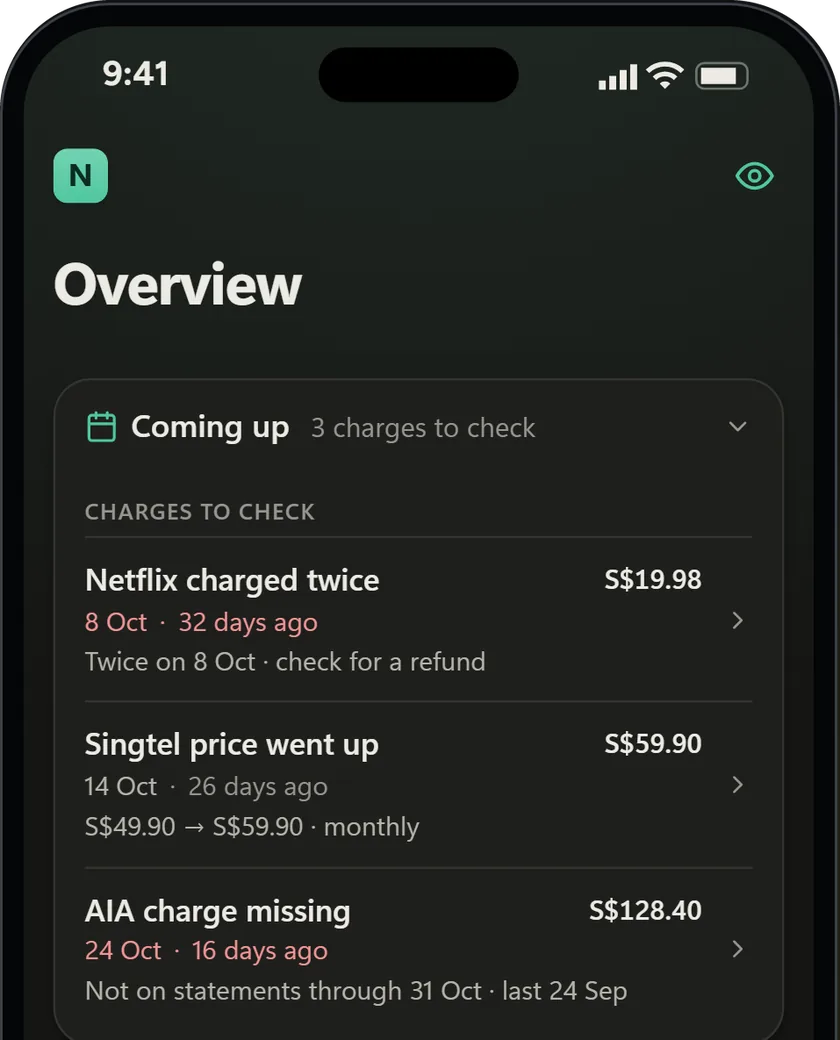
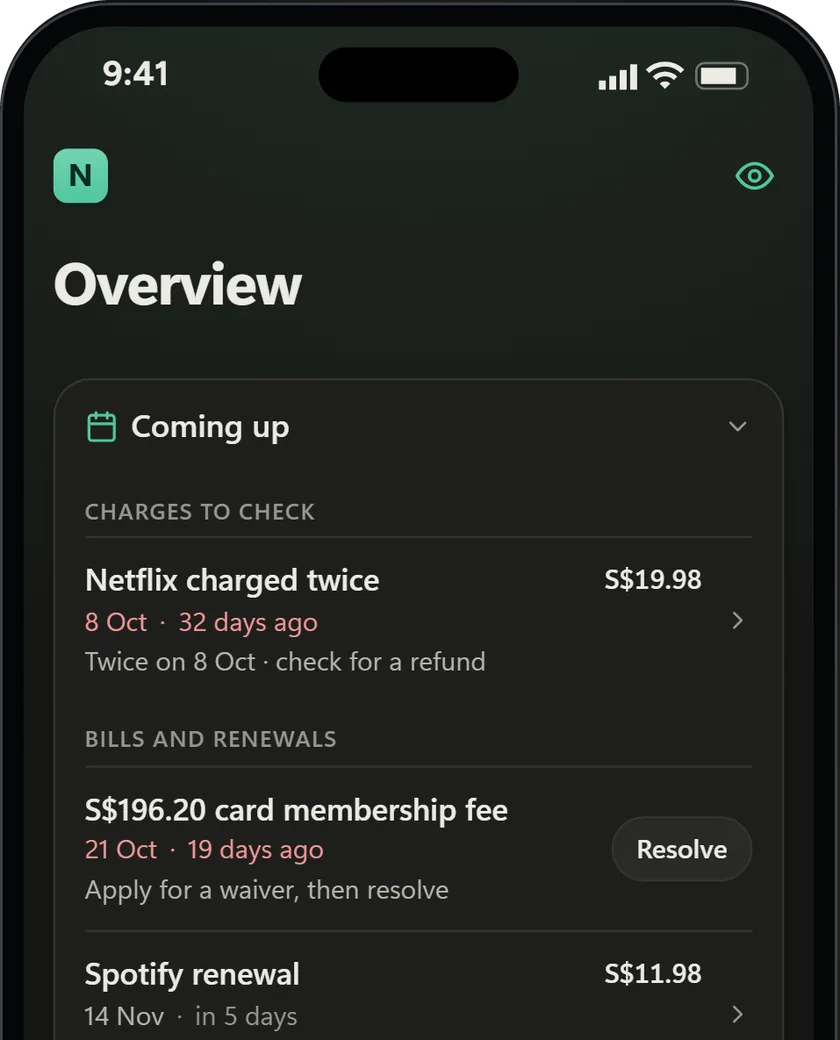
Projects: sharper selling points for all four apps
Each app's reasons and More features were rethought line by line for a
reader who gets one look: the pinned board, the cats doing the nagging, a
whole financial life in one place, smart packing that learns. New cards
show empty slots, private replies, double charges and card fees, saved
lists per kind of trip and planning on any device; retired images go.

diff --git a/projects.html b/projects.html
@@ -69,15 +69,15 @@
 						<ul class="app-why" id="squashbot-why" tabindex="-1" aria-label="Why I built my own">
 							<li><span class="app-why__icon" aria-hidden="true"><svg viewBox="0 0 24 24"><use href="#pj-i-chat"/></svg></span><p><strong>Booking a court takes one message</strong></p></li>
 							<li><span class="app-why__icon" aria-hidden="true"><svg viewBox="0 0 24 24"><use href="#pj-i-coins"/></svg></span><p><strong>Court fees split themselves</strong></p></li>
-							<li><span class="app-why__icon" aria-hidden="true"><svg viewBox="0 0 24 24"><use href="#pj-i-id"/></svg></span><p><strong>Friends join without installing anything</strong></p></li>
+							<li><span class="app-why__icon" aria-hidden="true"><svg viewBox="0 0 24 24"><use href="#pj-i-list"/></svg></span><p><strong>Who&#8217;s playing is always pinned at the top</strong></p></li>
 						</ul>
 						<p class="app-card__facts"><span>Cloudflare Workers, D1</span></p>
 						<figure class="cpn cpn--lock" data-for="squash" data-script="assets/js/projects-companions.js"><div class="cpl" aria-hidden="true" inert></div><figcaption>Book a court, and the group&#8217;s phones light up.</figcaption></figure>
 					</div>
 					<section class="app-more" aria-labelledby="squashbot-more"><h3 id="squashbot-more">More features.</h3><ul>
-						<li><p><strong>Catches double bookings before we turn up</strong></p><img src="images/projects/squashbot-conflict.webp" alt="SquashBot&#8217;s confirm card for c2 tue 8.30pm, Court 2 on Tue 17 Nov from 8:30pm, warning that it overlaps an existing booking on Court 2 from 8:00 pm to 9:00 pm, with an Add anyway button." width="840" height="1040" loading="lazy" decoding="async"></li>
-						<li><p><strong>Peak and holiday rates worked out for us</strong></p><img src="images/projects/squashbot-pricing.webp" alt="The Mini App&#8217;s Tab history: a 5pm to 7pm court at $9.00, a Deepavali holiday morning hour at $6.00 and a weekday afternoon at $6.00 for two hours, above the rule: $6 an hour from 6pm, on weekends and on public holidays, $3 otherwise." width="840" height="1040" loading="lazy" decoding="async"></li>
-						<li><p><strong>Empty slots fill without asking around</strong></p><img src="images/projects/squashbot-mini.webp" alt="The SquashBot Mini App listing three courts: two with Join buttons, one marked Full." width="840" height="1040" loading="lazy" decoding="async"></li>
+						<li><p><strong>Courts and the tab, one tap away</strong></p><img src="images/projects/squashbot-mini.webp" alt="The SquashBot Mini App listing three courts: two with Join buttons, one marked Full." width="840" height="1040" loading="lazy" decoding="async"></li>
+						<li><p><strong>Empty slots fill without asking around</strong></p><img src="images/projects/squashbot-slots.webp" alt="The group chat with one SquashBot post: 2 slots left on Court 1, in 2 days on Sun 15 Nov, 10am to 12pm, with Nicholas playing and a Join button." width="840" height="1040" loading="lazy" decoding="async"></li>
+						<li><p><strong>The group chat stays free of bot spam</strong></p><img src="images/projects/squashbot-private.webp" alt="A SquashBot list in the group chat that says Only you can see this list, with a button to join or leave each court, then Add booking and Close." width="840" height="1040" loading="lazy" decoding="async"></li>
 					</ul></section>
 				</article>
 
@@ -131,7 +131,7 @@
 					</figure>
 					<div class="app-card__body">
 						<ul class="app-why" id="nagbot-why" tabindex="-1" aria-label="Why I built my own">
-							<li><span class="app-why__icon" aria-hidden="true"><svg viewBox="0 0 24 24"><use href="#pj-i-bell"/></svg></span><p><strong>The bot reminds, so we don&#8217;t have to</strong></p></li>
+							<li><span class="app-why__icon" aria-hidden="true"><svg viewBox="0 0 24 24"><use href="#pj-i-bell"/></svg></span><p><strong>Our two cats do the nagging</strong></p></li>
 							<li><span class="app-why__icon" aria-hidden="true"><svg viewBox="0 0 24 24"><use href="#pj-i-chat"/></svg></span><p><strong>Chores rotate evenly between us</strong></p></li>
 							<li><span class="app-why__icon" aria-hidden="true"><svg viewBox="0 0 24 24"><use href="#pj-i-spark"/></svg></span><p><strong>Adding a chore takes one plain sentence</strong></p></li>
 						</ul>
@@ -140,7 +140,7 @@
 					</div>
 					<section class="app-more" aria-labelledby="nagbot-more"><h3 id="nagbot-more">More features.</h3><ul>
 						<li><p><strong>Chores become a weekly game</strong></p><img src="images/projects/nag-stats.webp" alt="The Chores app&#8217;s Stats tab: DodgerBlueee first with 5 chores and a 3-week reign, Nicholas second with 4, and 2 done together." width="840" height="1040" loading="lazy" decoding="async"></li>
-						<li><p><strong>One big clean-up clears the small reminders</strong></p><img src="images/projects/nag-family.webp" alt="The clear poop chore in the Chores app with its family: wash the litter box above it, shake the litter box below." width="840" height="1040" loading="lazy" decoding="async"></li>
+						<li><p><strong>Nested chores clear in one tap</strong></p><img src="images/projects/nag-family.webp" alt="The clear poop chore in the Chores app with its family: wash the litter box above it, shake the litter box below." width="840" height="1040" loading="lazy" decoding="async"></li>
 						<li><p><strong>No flood of nags after a holiday</strong></p><img src="images/projects/nag-vacation.webp" alt="The chat after someone sends /pause all 14: the bot replies that all chores are paused until Sun, Nov 22 and the cats will nap on your luggage." width="840" height="1040" loading="lazy" decoding="async"></li>
 					</ul></section>
 				</article>
@@ -197,16 +197,16 @@
 					</figure>
 					<div class="app-card__body">
 						<ul class="app-why" id="finance-why" tabindex="-1" aria-label="Why I built my own">
-							<li><span class="app-why__icon" aria-hidden="true"><svg viewBox="0 0 24 24"><use href="#pj-i-lock"/></svg></span><p><strong>No app ever holds our bank logins</strong></p></li>
-							<li><span class="app-why__icon" aria-hidden="true"><svg viewBox="0 0 24 24"><use href="#pj-i-check"/></svg></span><p><strong>Flags the small charges a stolen card makes</strong></p></li>
+							<li><span class="app-why__icon" aria-hidden="true"><svg viewBox="0 0 24 24"><use href="#pj-i-home"/></svg></span><p><strong>Our whole financial life in one place</strong></p></li>
+							<li><span class="app-why__icon" aria-hidden="true"><svg viewBox="0 0 24 24"><use href="#pj-i-coins"/></svg></span><p><strong>Know where every dollar went</strong></p></li>
 							<li><span class="app-why__icon" aria-hidden="true"><svg viewBox="0 0 24 24"><use href="#pj-i-bolt"/></svg></span><p><strong>Every statement filed and added in one go</strong></p></li>
 						</ul>
 						<p class="app-card__facts"><span>Python, JavaScript</span></p>
 						<figure class="cpn cpn--flow" data-for="finance" data-script="assets/js/projects-companions.js"><ol class="cpf-flow" aria-label="Where the work happens"><li><span class="cpf-t" aria-hidden="true"><svg viewBox="0 0 40 40"><path d="M18 5h10.5l5 5v17M14 8.5h11.5l5 5V30"/><path d="M10 12h12l6 6v16H10z"/><path d="M22 12v6h6"/></svg></span><span>Bank PDFs downloaded</span></li><li><span class="cpf-t cpf-pc" aria-hidden="true"><svg viewBox="0 0 40 40"><rect x="7" y="10" width="26" height="17" rx="2"/><path d="M4 30h32l-2 3H6z"/><path class="cpf-line" pathLength="1" d="M10 23.5 13.5 21.5 16.5 22.2 20 19 23.5 19.6 27 15.8 30 15"/><circle class="cpf-dot" cx="30" cy="15" r="1.7"/></svg></span><span>Checked on the PC</span></li><li><span class="cpf-t" aria-hidden="true"><svg viewBox="0 0 40 40"><rect x="13.5" y="6" width="13" height="28" rx="3"/><path d="M18.5 9h3"/><path d="M16.6 19.4a3.5 3.5 0 0 1 6.2-1.8M23.4 21.6a3.5 3.5 0 0 1-6.2 1.8"/><path d="M23.1 15.9v2h-2M16.9 25.1v-2h2"/></svg></span><span>Synced to the iPhone</span></li></ol></figure>
 					</div>
 					<section class="app-more" aria-labelledby="finance-more"><h3 id="finance-more">More features.</h3><ul>
-						<li><p><strong>No double charge goes unnoticed</strong></p><img src="images/projects/finance-alerts.webp" alt="Sample Coming up list with three charges to check: Netflix charged twice on 8 Oct, Singtel&#8217;s monthly price up from S$49.90 to S$59.90, and an AIA charge missing from the statements through 31 Oct." width="840" height="1040" loading="lazy" decoding="async"></li>
-						<li><p><strong>No guessing if we&#8217;re insured enough</strong></p><img src="images/projects/finance-insurance.webp" alt="Sample Insurance screen for Nicholas: cover short S$60k on critical illness. Death and total and permanent disability are covered; the critical illness bar is half full, short S$60,000." width="840" height="1040" loading="lazy" decoding="async"></li>
+						<li><p><strong>Double charges and card fees caught</strong></p><img src="images/projects/finance-alerts.webp" alt="Sample Coming up list: Netflix charged twice on 8 Oct, a S$196.20 card membership fee to apply for a waiver on, and a Spotify renewal in 5 days." width="840" height="1040" loading="lazy" decoding="async"></li>
+						<li><p><strong>Insurance coverage at a glance</strong></p><img src="images/projects/finance-insurance.webp" alt="Sample Insurance screen for Nicholas: cover short S$60k on critical illness. Death and total and permanent disability are covered; the critical illness bar is half full, short S$60,000." width="840" height="1040" loading="lazy" decoding="async"></li>
 						<li><p><strong>Retirement savings<br>that cut tax</strong></p><img src="images/projects/finance-tax.webp" alt="Sample Tax moves page for 2026 pay: a S$15,300 SRS top-up cuts tax by about S$1,071 and an optional S$8,000 own CPF top-up by about S$441, taking tax before rebate from S$1,943 to S$431." width="840" height="1040" loading="lazy" decoding="async"></li>
 					</ul></section>
 				</article>
@@ -284,17 +284,17 @@
 					</figure>
 					<div class="app-card__body">
 						<ul class="app-why" id="packing-why" tabindex="-1" aria-label="Why I built my own">
-							<li><span class="app-why__icon" aria-hidden="true"><svg viewBox="0 0 24 24"><use href="#pj-i-moon"/></svg></span><p><strong>The right number of socks, every trip</strong></p></li>
-							<li><span class="app-why__icon" aria-hidden="true"><svg viewBox="0 0 24 24"><use href="#pj-i-list"/></svg></span><p><strong>Stops me packing things I don&#8217;t use</strong></p></li>
-							<li><span class="app-why__icon" aria-hidden="true"><svg viewBox="0 0 24 24"><use href="#pj-i-phone"/></svg></span><p><strong>Tick items off on my phone while packing</strong></p></li>
+							<li><span class="app-why__icon" aria-hidden="true"><svg viewBox="0 0 24 24"><use href="#pj-i-spark"/></svg></span><p><strong>Smart packing for every trip</strong></p></li>
+							<li><span class="app-why__icon" aria-hidden="true"><svg viewBox="0 0 24 24"><use href="#pj-i-list"/></svg></span><p><strong>Learns what I actually use</strong></p></li>
+							<li><span class="app-why__icon" aria-hidden="true"><svg viewBox="0 0 24 24"><use href="#pj-i-check"/></svg></span><p><strong>Never leave without the essentials</strong></p></li>
 						</ul>
 						<p class="app-card__facts"><span>Python, JavaScript</span></p>
 						<figure class="pkl" data-script="assets/js/projects-laptop.js"><div class="pkl-lid"><div class="pkl-screen"><div class="pkl-app" aria-hidden="true"></div></div></div><div class="pkl-base"></div><figcaption>Tick on the phone, and the laptop follows.</figcaption></figure>
 					</div>
 					<section class="app-more" aria-labelledby="packing-more"><h3 id="packing-more">More features.</h3><ul>
-						<li><p><strong>No rewriting the list for every trip</strong></p><img src="images/projects/packing-rule.webp" alt="Travel Packing&#8217;s Edit item dialog for Socks: From nights, 0.8 per night, plus 0, between 3 and 7, giving 4 for 4 nights." width="840" height="1040" loading="lazy" decoding="async"></li>
-						<li><p><strong>Share what&#8217;s left in one picture</strong></p><img src="images/projects/packing-picture.webp" alt="Travel Packing&#8217;s Copy as image picture: a boarding-pass header, SIN to CTU, Sat 21 Nov, 4 nights, Normal trip 41 of 50 packed, unpacked only, then Travel Adaptor, Phone Wire and Plug, Passport, Umbrella, Toothbrush, Shaver, Retainer, Socks ×4 and Jacket in Basics, Hygiene and Clothes cards." width="840" height="1040" loading="lazy" decoding="async"></li>
-						<li><p><strong>Pick up a <span style="white-space:nowrap">half-packed</span> trip later</strong></p><img src="images/projects/packing-history.webp" alt="The Trip history dialog: a saved trip named Weekend away, with Normal trip 48/50 packed over 5 nights and a Reload trip button, above a recovery copy from before resetting Normal trip." width="840" height="1040" loading="lazy" decoding="async"></li>
+						<li><p><strong>A saved list for each kind of trip</strong></p><img src="images/projects/packing-kinds.webp" alt="The packing app&#8217;s Trip history with three saved trips, Beach weekend, Ski week and Work trip, each with its own lists, counts and nights and a Reload trip button." width="840" height="1040" loading="lazy" decoding="async"></li>
+						<li><p><strong>Plan on any device</strong></p><img src="images/projects/packing-share.webp" alt="The packing app&#8217;s share panel: Scan on your phone, a QR code and a Wi-Fi link. Same Wi-Fi only; the phone can tick and edit, and both screens stay in step." width="840" height="1040" loading="lazy" decoding="async"></li>
+						<li><p><strong>Send what&#8217;s left as one picture</strong></p><img src="images/projects/packing-picture.webp" alt="Travel Packing&#8217;s Copy as image picture: a boarding-pass header, SIN to CTU, Sat 21 Nov, 4 nights, Normal trip 41 of 50 packed, unpacked only, then Travel Adaptor, Phone Wire and Plug, Passport, Umbrella, Toothbrush, Shaver, Retainer, Socks ×4 and Jacket in Basics, Hygiene and Clothes cards." width="840" height="1040" loading="lazy" decoding="async"></li>
 					</ul></section>
 				</article>
 			</section>
@@ -312,9 +312,6 @@
 				<symbol id="pj-i-bolt" viewBox="0 0 24 24"><path d="M13 3v7h6l-8 11v-7H5z"/></symbol>
 				<symbol id="pj-i-home" viewBox="0 0 24 24"><path d="M5 12H3l9-9 9 9h-2M5 12v7a2 2 0 0 0 2 2h10a2 2 0 0 0 2-2v-7M9 21v-6a2 2 0 0 1 2-2h2a2 2 0 0 1 2 2v6"/></symbol>
 				<symbol id="pj-i-check" viewBox="0 0 24 24"><path d="M12 3a12 12 0 0 0 8.5 3A12 12 0 0 1 12 21 12 12 0 0 1 3.5 6 12 12 0 0 0 12 3M9 12l2 2 4-4"/></symbol>
-				<symbol id="pj-i-moon" viewBox="0 0 24 24"><path d="M12 3h.39a7.5 7.5 0 0 0 7.92 12.45A9 9 0 1 1 12 3z"/></symbol>
-				<symbol id="pj-i-phone" viewBox="0 0 24 24"><path d="M6 5a2 2 0 0 1 2-2h8a2 2 0 0 1 2 2v14a2 2 0 0 1-2 2H8a2 2 0 0 1-2-2zM11 4h2M12 17v.01"/></symbol>
-				<symbol id="pj-i-id" viewBox="0 0 24 24"><path d="M3 7a3 3 0 0 1 3-3h12a3 3 0 0 1 3 3v10a3 3 0 0 1-3 3H6a3 3 0 0 1-3-3zM7 10a2 2 0 1 0 4 0 2 2 0 1 0-4 0M15 8h2M15 12h2M7 16h10"/></symbol>
 				<symbol id="pj-i-coins" viewBox="0 0 24 24"><path d="M9 14c0 1.66 2.69 3 6 3s6-1.34 6-3-2.69-3-6-3-6 1.34-6 3zM9 14v4c0 1.66 2.69 3 6 3s6-1.34 6-3v-4M3 6c0 1.07 1.14 2.06 3 2.6s4.14.54 6 0 3-1.53 3-2.6-1.14-2.06-3-2.6-4.14-.54-6 0S3 4.93 3 6zM3 6v10c0 .89.77 1.45 2 2M3 11c0 .89.77 1.45 2 2"/></symbol>
 				<symbol id="pj-i-list" viewBox="0 0 24 24"><path d="M10 6h10M10 12h10M10 18h6M4 6l1 1 2-2M4 12l1 1 2-2M5 18h.01"/></symbol>
 				<symbol id="pj-i-lock" viewBox="0 0 24 24"><path d="M5 13a2 2 0 0 1 2-2h10a2 2 0 0 1 2 2v6a2 2 0 0 1-2 2H7a2 2 0 0 1-2-2zM11 16a1 1 0 1 0 2 0 1 1 0 1 0-2 0M8 11V7a4 4 0 1 1 8 0v4"/></symbol>

diff --git a/README.md b/README.md
@@ -282,9 +282,10 @@ Fragile behaviour the markup does not reveal. Read [`AGENTS.md`](AGENTS.md) firs
 - Four apps, in this order: SquashBot, Nag-bot, Finance tracker and Travel Packing. No Earlier section: Brawl Stars was dropped (owner, 9 Nov 2026: "lets drop the brawl stars section as well. it pales compared to the rest"). No This site card.
 - The page is a dark showcase after paprikaapp.com's dark theme (owner, 9 Nov 2026: "i think all the apps look the same and thats the problem", then "can we follow this theme of project showcase. i like the dark theme"): `#main` is `#111214` on this route only, with no boxed stage; each app owns one accent taken from its own source (SquashBot Telegram blue `#6ab2f2`, Nag-bot the paw avatar's orange `#f28a52`, Finance the gold trend line of its icon `#e3b341`, Packing its nylon aqua `#5fd0c5`) for a soft halo behind the phone, the kind line, the reason icons and the chosen rail tab, its bar and its thumbnail ring. The halo stays inside the phone column (owner: "the spotlight overlaps the words"). Each card leads with the app's real icon (SquashBot's racket logo and Nag-bot's paw avatar round like Telegram avatars; the tracker's and Packing's favicons as rounded tiles) and its name in Archivo 650. The screens alternate dark and light so no two neighbours look alike: SquashBot in Telegram's night theme, Nag-bot in Telegram's day theme with a warm wallpaper (its Mini App follows Telegram's theme, with nag-bot's own light fallbacks), Finance in the tracker's own dark theme (its `:root[data-theme="dark"]` tokens), Packing on its light lining.
 - Desktop (981px and up) shows one project at a time (owner, 8 Nov 2026: "on desktop, shouldnt show all 4 projects at once. should show a carousell with a small animated thumbnail for those not in view"): a rail of four tabs (`.app-rail`, ARIA tabs, arrow/Home/End keys, `#id` deep links) sits above the chosen card, which puts a 90% phone beside its name and reasons. Each tab carries a thumbnail recorded from that demo's own preview; they play one at a time, in turn, and hovering a tab plays its own (owner: "all activating at once looks like a mess"); the playing one gets a ring in its app's accent. The carousel turns by itself (owner, 8 Nov 2026: "carousell should auto rotate to the next one"): a bar fills under the chosen tab (9, 8, 12.5 and 10 s, long enough for each preview and its result), pausing while the pointer is over the rail or card or the phone is not fully on screen; then the next app shows, its preview replays, and the next app's thumbnail plays as "up next". A tab click, arrow key, or a tap or key in a demo stops it for good; reduced motion never starts it (`images/projects/<app>.mp4`, 108x200 H.264, plus `-poster.webp`, per the site's MP4-plus-poster rule); the script attaches them on desktop only; reduced motion shows the posters. Phones keep all four cards stacked and download no thumbnails. Re-record the loops after changing a demo's preview (Playwright recordVideo of the phone at 2x, cropped and scaled with ffmpeg).
-- Each card opens with its kind and name (no one-line description since 9 Nov 2026: owner, "these lines are too extra … to look more sleek"; the desktop rail's subtitle and the first reason say what each app is for, and phones hide the rail), then the demo, then three short reasons and the stack (8 Nov 2026: on phones the name used to arrive after a full phone of demo). On desktop the card's phone is scaled by `--ps` on `.app-grid` (owner, 8 Nov 2026: "the phones are way too big and need to scroll too much"). The skip link jumps past the demo to the reasons. Reasons state a decision, in plain first person where it fits, and must stay true to each app's own README; each bot carries one security or AI decision (IDs, not usernames; the AI suggests, a tap decides). Every app's reasons say why it beats what people already use, not how it works (owner, 9 Nov 2026: "nagbot features writeup on top is bad.. think harder of the benefits compared to other reminder apps. do the same for the rest"; earlier: "the value of the features are not there"): SquashBot against polls plus Splitwise (book by typing it; Splitwise without the typing; no app or account to join, with the Telegram-ID rule), Nag-bot against reminder apps (nags until it's done, quiet overnight; shared and fair, rotating chores to whoever did least; the AI suggests and a tap decides), Finance against aggregator and bank apps (no bank logins handed out, with read-only phones; catches card testing; every statement in one command), Packing against a checklist (counts that scale with the trip; a list that improves after each trip; phone and laptop on one list). Since 9 Nov 2026 each reason, like each feature card, is a title alone (owner: "can it be without it, to look more sleek"; "my friends have to read it once and understand the value immediately"). Titles say how each app improves the owner's life, not what it does (owner, 9 Nov 2026: "the features dont really show the value to MYSELF. how does it improve my quality of life?"): time saved, a chore he no longer thinks about, money not lost. They follow a researched rule set (meaningful words first, 3–8 words, concrete, no jargon, brand names, idioms or semicolons) and were checked against each app's source, so nothing overclaims (the card-testing check runs on imported statements, so no "before the big spend"; the home register stores warranty end dates, so no "never pay for a repair"). Nothing may make him sound cheap or petty (owner, 9 Nov 2026: "dont make me sound cheap also - chasing friends for money .. and other stuff"): money and chores are framed as ease and fairness, never collecting or arguing. Pronouns are left out where possible, "we/our" in the shared apps, "my" only in Packing. Reasons: SquashBot "Booking a court takes one message", "Court fees split themselves", "Friends join without installing anything"; Nag-bot "The bot reminds, so we don't have to", "Chores rotate evenly between us", "Adding a chore takes one plain sentence"; Finance "No app ever holds our bank logins", "Flags the small charges a stolen card makes", "Every statement filed and added in one go"; Packing "The right number of socks, every trip", "Stops me packing things I don’t use" (owner, 9 Nov 2026: "standout features on why i use this instead of another app"; the app’s after-trip review, `reviewDialog` in packing’s `app.js`, where Leave out drops an item from that list and One fewer/One more move its rule; Last call stays in the demo’s caption and preview), "Tick items off on my phone while packing". The page intro no longer says "three decisions I made". Finance leads with security, detection and automation (owner, 8 Nov 2026: "the selling point of totals dont add up is so lame"). Kind lines say Self-hosted, never "Runs on my PC" (owner: "sounds lame").
+- Each card opens with its kind and name (no one-line description since 9 Nov 2026: owner, "these lines are too extra … to look more sleek"; the desktop rail's subtitle and the first reason say what each app is for, and phones hide the rail), then the demo, then three short reasons and the stack (8 Nov 2026: on phones the name used to arrive after a full phone of demo). On desktop the card's phone is scaled by `--ps` on `.app-grid` (owner, 8 Nov 2026: "the phones are way too big and need to scroll too much"). The skip link jumps past the demo to the reasons. Reasons state a decision, in plain first person where it fits, and must stay true to each app's own README; each bot used to carry one security or AI decision (IDs, not usernames; the AI suggests, a tap decides), which the 9 Nov 2026 rethink set aside for lines a layman feels. Every app's reasons say why it beats what people already use, not how it works (owner, 9 Nov 2026: "nagbot features writeup on top is bad.. think harder of the benefits compared to other reminder apps. do the same for the rest"; earlier: "the value of the features are not there"): SquashBot against polls plus Splitwise (book by typing it; Splitwise without the typing; no app or account to join, with the Telegram-ID rule), Nag-bot against reminder apps (nags until it's done, quiet overnight; shared and fair, rotating chores to whoever did least; the AI suggests and a tap decides), Finance against aggregator and bank apps (no bank logins handed out, with read-only phones; catches card testing; every statement in one command), Packing against a checklist (counts that scale with the trip; a list that improves after each trip; phone and laptop on one list). Since 9 Nov 2026 each reason, like each feature card, is a title alone (owner: "can it be without it, to look more sleek"; "my friends have to read it once and understand the value immediately"). Titles say how each app improves the owner's life, not what it does (owner, 9 Nov 2026: "the features dont really show the value to MYSELF. how does it improve my quality of life?"): time saved, a chore he no longer thinks about, money not lost. They follow a researched rule set (meaningful words first, 3–8 words, concrete, no jargon, brand names, idioms or semicolons) and were checked against each app's source, so nothing overclaims (the card-testing check runs on imported statements, so no "before the big spend"; the home register stores warranty end dates, so no "never pay for a repair"). Nothing may make him sound cheap or petty (owner, 9 Nov 2026: "dont make me sound cheap also - chasing friends for money .. and other stuff"): money and chores are framed as ease and fairness, never collecting or arguing. Pronouns are left out where possible, "we/our" in the shared apps, "my" only in Packing. Reasons, rethought with the owner one app at a time on 9 Nov 2026 ("lets think harder of the 3 top selling points and additional features for each ... lets discuss here before editing"), each judged by whether a layman gets it in one read: SquashBot "Booking a court takes one message", "Court fees split themselves", "Who's playing is always pinned at the top" (the pinned board; "Friends join without installing anything" was dropped, as everyone already has Telegram); Nag-bot "Our two cats do the nagging" (owner: "keep it as this. it is implied"), "Chores rotate evenly between us", "Adding a chore takes one plain sentence"; Finance "Our whole financial life in one place" (owner: "not just accounts. but whole life of finances - insurance, house, transactions, investments"; the bank-logins line went because "even if no bank login, still need to manually download statements"), "Know where every dollar went" (the stolen-card line was "not a strong point"), "Every statement filed and added in one go"; Packing "Smart packing for every trip" (owner's wording; the socks line was "not easily understandable"), "Learns what I actually use" (the after-trip review; "the list gets better after every trip" was "not straightforward"), "Never leave without the essentials" (Last call; the packing app's PRODUCT.md defines success as never forgetting an essential). Reason icons follow the lines: list for the pinned board, home for the whole financial life, coins for every dollar, spark for smart packing, check for the essentials. The page intro no longer says "three decisions I made". Kind lines say Self-hosted, never "Runs on my PC" (owner: "sounds lame").
 - Each card has a working 300 x 560 sample demo (300 x 640 on desktop, nearer a real iPhone's shape now that one shows at a time; owner, 8 Nov 2026), a reset button and three short reasons. No app data files or real household/group details ship, with two exceptions: the owner's partner appears by her Telegram name DodgerBlueee in SquashBot (the visitor books as her) and on Nag-bot's leaderboard beside Nicholas (owner, 9 Nov 2026: "leaderbot for nagbot should be me and DodgerBlueee. its ok to put her name for suashbot too"). Finance keeps Alex as the second insured person, so invented cover gaps are not pinned on a real person. Finance has no Sample label (owner, 9 Nov 2026: "dont put the sample label on finance"), and its invented figures sit well below the owner's real ones: every amount was divided by 2.5 on 9 Nov 2026 (net worth S$194,480), except the three card-testing charges, which show the S$20 rule.
 - Demos look and behave like the real apps (8 Nov 2026 blind fidelity review; check against each app's source before changing one): SquashBot's chat has a squash-court wallpaper (`images/projects/squash-wallpaper.svg`: a calm dark field with a warm maple-floor glow and a glass-wall teal, and only the court's T in faint red; owner, 8 Nov 2026: a busier version with court lines and racket doodles was "quite ugly especially with so many chats", so keep it low-contrast with no pattern; boosted Telegram groups can set a wallpaper for all members), its pinned bar carries the real one-button Mini App link (🎾 Courts on the board, 🧾 Tab on the tab), the Mini App has the real Courts | Tab switch, Join/Leave/Full and the "You owe" card, typed bookings come from a group admin (the bot ignores members' free text), and replies accept short court names. The chat holds only what the real group shows (owner, 9 Nov 2026: "too many spam messages ... too much noise, hard to see value"): the pinned `📌 Court schedule` (bookings.js `renderBoard`: one line per court, `<b>C4</b>`, full courts struck through, one 🎾 Courts button; the bot's `↳ booked by` line is left out and the demo uses Courts 1–4 only, so "Which court?" is one row of four, and the chips have no label line above them (owner, 9 Nov 2026: "looks more cluttered than the acutal one. dont have the booked by dodgerblueee. Maybe just show 4 courts instead of 5 too")), edited in place, and the single "🙋 N slots left on Court X" post (announcements.js) for the nearest open court, deleted and reposted when a nearer court is booked. The confirm form is the booker's own; once saved it goes and the schedule and that post change instead, and a Join answers with a toast. The tab lives in the second pin and the Mini App, not in the chat. What the chat cannot show sits under the demo in a Paprika-style "More features." row (owner, 9 Nov 2026: "if we cannot squeeze all the features ... we can do it like paprika"): three cards, each a title and the top of a phone screen rendered from the demo's own markup and CSS in the bot's own words, saved as `images/projects/<app>-<name>.webp`. Swapped on 9 Nov 2026 after the owner asked to "scrutinize the value of the features": SquashBot shows the confirm card's overlap warning (wizard.js "⚠ This overlaps an existing booking:" and "⚠ Add anyway", `squashbot-conflict`), peak and holiday pricing in the Tab's history (pricing.js: 5pm–7pm crossing 6pm, Deepavali observed at the peak rate, a weekday afternoon off-peak; `squashbot-pricing`) and the Courts Mini App (`squashbot-mini`), replacing a game-day reminder any calendar gives and a tab card that repeated the Splitwise reason. Packing's first card is the real app's own Edit item dialog for Socks (0.8 per night, 3 to 7, "→ 4 for 4 nights"; `packing-rule`), rendered from a copy of the app holding only data/seed.json, laid out at 375px and drawn at 0.8 under the demo's status bar; it replaced the Defaults page. Nag-bot keeps its three; Finance's are below. Desktop puts the row across both grid columns under the card; phones scroll it sideways. Re-render them after changing the demo's look. Nag-bot's chat opens on the pinned 🐾 Chores board itself (owner, 9 Nov 2026: "nagbot doesnt show the pinned chore list - and everything is just done ... doesnt show the cute mocha and latte stickers"; dashboard.js `choreListHtml`: a lead line, then emoji, bold chore and italic cadence per chore, under one 🐾 Chores Mini App button), and the board, the pinned bar and the Mini App draw from one status list, so Done, snooze, delete and Undo redraw all three; tapping the pinned bar scrolls to the board and flashes it. Each nag comes with a cut-out sticker from the live LatteMocha2 pack (owner, 9 Nov 2026: the square photos in stickers-data.js were "not as cute as the actual one"; the pack is backed up in nag-bot's `assets/stickers/` with each sticker's cat tag), and the line names the cat on it as nag.js `NAG_LINES` does: a wide-eyed Mocha with "Mocha is watching you. Unblinking. 👀" (`images/projects/nag-sticker-nag.webp`); Done takes that sticker down and sends a heart-eyed Latte beside the receipt ("Latte purrs approvingly.", `nag-sticker-done.webp`; both paths stay literal in projects.js, because the build publishes only images whose full path it can find in the built files), Delete and Hide take it down, and Undo and Not done send none. Dates use the bot's fmtWhen ("in 2 days · Tue 9:00 PM"), the snooze cap refuses on Snooze itself, and Undo after a delete edits the log to "Restored". The chat scrolls with a hidden scrollbar and opens at the newest message. Finance has five phone tabs of the owner's copy (Overview, Wealth, Insurance, Home, Activity; Split left out at the owner's request, 8 Nov 2026; no Travel, as in the tracker's CLAUDE.md; owner, 8 Nov 2026: "too few tabs. it doesnt show the depth of the actual"), each a short page in the app's own words: Wealth's Income | Net worth | Investments switch (income outlook and long-range forecast, the net-worth chart, IBKR's "✓ numbers tally"), Insurance one insured person per sub-tab with "Where the cover falls short", Home's register with Needs info / Covered / No active cover filters and warranty dates, and Activity's Transactions | Games. The Overview keeps its source-check line ("186 rows checked against their statements") and Needs attention first; the flagged charges open the app's own check drawer ("Medium priority check", the risk_checks.py reason, "This is an anomaly, not a fraud verdict.") with "I recognize this" disabled because a paired phone is a read-only copy. Hide amounts masks the net worth, the statement tiles and all of Wealth, as the app's privacy.js does (premiums, bills and transactions stay readable). Finance is laid out at an iPhone's 375px and drawn at 0.8 inside the 300px screen (status and home bars kept full size), so it keeps the real app's proportions and its own sizes: 28px titles, 15px rows, the 52px header on the page's green top glow, the segmented control's lighter #4a4a46 choice, 20px tile figures, Home's filter pills (scrolling sideways as in the app) and frosted day headers (owner, 9 Nov 2026: "the finance app mockup doesnt seem as good as the actual app"). It uses the app's system font stack (Segoe UI Variable on Windows, SF on Apple), not Figtree. Activity matches the app's phone list (owner: "where are the logos and the polish like the actual app? E.g for grab"): "26 CARD TRANSACTIONS · S$1,049 spent", charges as −S$, and merchant logos from the tracker's own `app/assets/merchant-logos`, in one 102px-a-cell sprite, `images/projects/finance-logos.webp`, indexed by `LOGO` in `projects.js` (new cells go at the end so indexes hold). Every merchant is one the tracker has a logo for, with no letter tiles (owner, 9 Nov 2026: "remove all the vendors with no logo. use existing logos and vendors from the actual finance app"): Watami, Starbucks, Ya Kun and McDonald's; SimplyGo (the transit icon), Grab and TADA; Trip.com, KKday and Klook; GrabFood and Foodpanda; Steam, HoYoverse and Kuro Games; and the three flagged card-testing charges G2G, Xsolla and ZeusX, game-trading sites the tracker knows. Some sources are 32–64px favicons, so they are soft when enlarged, as in the app. Home lists the owner's own brands with the pictures his tracker shows (owner, 9 Nov 2026: "home brand u can use my actual brands and just reuse the logo"): FortyTwo's logo on the app's #f0f1f2 logo tile, and Hitachi, Daikin, Rinnai and Bosch product pictures on its dark tile, 48px rows with a hairline edge, from the tracker's `manual/assets/home`; they are the sprite's last five cells. Prices and warranty dates stay invented. Packing's list head is the real app's boarding pass as its phone layout draws it (packing's DESIGN.md "Boarding pass", 9 Nov 2026: band, passenger line, SIN and the destination code over city names with the plane on its line, the date chip and nights stepper, and a stub strip with the code tag and the countdown); Normal trip flies SIN to CTU 12 days out and Extended trip SIN to HRB 40 days out, both the same offset as home so no local time shows, the dates computed from today (`data-day`) so the countdown stays true, and the two trips' words swapped by `data-key` on the demo root in CSS rather than script, since the page has about 10 bytes left under its ceiling; the progress line carries the app's plane marker (hidden at zero and at full, as in the app); the stub's second line is the app's optional destination forecast in its wording ("Chengdu 8–16 °C · rain on 2 of 5 days", invented, as the demo cannot fetch weather); when every item is ticked the app's passport-style PACKED stamp lands on the stub (`.pk-pseal`, shown by `:has()` on the full progress bar, so no script). Packing's tabs carry the list names and ✎ Defaults, Hide packed and Last call survive switching lists, and the demo opens on a trip already under way (7 of 20 packed) so the per-category counts and bars read at a glance (owner: "Looks pretty lame that its empty"); the app has no dashboard by design (PRODUCT.md).
+- More features, as rethought on 9 Nov 2026 (these replace the per-app lists in the next bullet where they differ; renders in `lab/projects-dark/tools/feat-squash2.cjs`, `finance/feat-new.cjs` and `packing/feat2.cjs`): SquashBot "Courts and the tab, one tap away" (`squashbot-mini`), "Empty slots fill without asking around" (`squashbot-slots`: the demo's own slots-left post alone with its Join button) and "The group chat stays free of bot spam" (`squashbot-private`: bookings.js `joinPickerView`, sent as a Telegram ephemeral message, "Only you can see this list."); the double-booking card was "not really a strong feature" and peak pricing repeated "Court fees split themselves". Nag-bot "Chores become a weekly game", "Nested chores clear in one tap" (owner: "just use the word nested chores") and "No flood of nags after a holiday". Finance "Double charges and card fees caught" (owner: "double charge is not that rare", "waive card fees"; `finance-alerts`: Coming up with a double charge, a S$196.20 card membership fee to waive, dated by its charge so red with Resolve, and a declared Spotify renewal; the summary hint is left out so nothing truncates), "Insurance coverage at a glance" and "Retirement savings that cut tax" (a line break after "savings" keeps one word off the first line). Packing "A saved list for each kind of trip" (owner's idea; `packing-kinds`: historyDialog() with Beach weekend, Ski week and Work trip, since each saved trip reloads both lists and Defaults), "Plan on any device" (owner's wording; `packing-share`: renderSharePopover() while sharing, "Scan on your phone", a real QR of an invented Wi-Fi link, "Same Wi-Fi only. The phone can tick and edit, and both screens stay in step.") and "Send what's left as one picture". Retired images were deleted: `squashbot-conflict`, `squashbot-pricing`, `packing-rule` and `packing-history`.
 - Every app card ends with a "More features." row (owner, 9 Nov 2026: "Yes, all three"): three strengths that are not already its reasons and that the chat or first screen cannot show, each a title of six words or fewer that explains the feature alone, with no description line (owner, 9 Nov 2026: "adding a description for the features makes it not as slick. the first line should already explain it"), checked against the real app's source, and an image rendered from the live demo (DPR 3, reduced motion, phone un-scaled, demo elements hidden in the render script when the point would fall below the crop, never drawn or edited by hand), cut by `featmask.py` to the top of the phone with transparent corners and saved as 840x1040 WebP under `images/projects/<app>-<name>.webp`, shown at up to 280px (owner, 9 Nov 2026: "the images also look a bit low res"). SquashBot: one reminder (owner: two near-identical reminders were "uncessary"), the Mini App's Tab with what you owe and each court behind it (owner: the chat's monthly notice "breaks into so many - unlike the actual tab on web app"), and the Courts Mini App. Nag-bot: the weekly leaderboard (stats.js), chores that reset together (nesting.js; "the shake" avoids the brand name in the real chore), vacation mode (`/pause all 14`, handlers.js). Finance: the three a layman feels most (owner, 9 Nov 2026, after a six-card version went live: "6 feature cards below is too much. choose the top 3 most impactful to a layman"): "No double charge goes unnoticed" (money lost), "No guessing if we're insured enough" (where the cover falls short, insurance-tab.js) and "Retirement savings that cut tax" (money saved). The warranty register, broker gains that tally and the post-import recap were cut as the less universal. `finance-alerts` is Coming up's Charges to check (app.js `recurringAlertCopy`: a double charge and a missing charge in red, a price change not; oldest first; the tax moves are left out of that render so the summary is the alerts-only "3 charges to check" and nothing truncates; review: a S$2 streaming rise leading the list read as penny-pinching, so a broadband rise and a missing insurance premium stand beside the double charge). `finance-tax` is the Tax moves panel (tax-moves.js `moveDetail`, figures from its `plan()` on an invented YA2026 notice: employment S$78,000, reliefs S$18,100, the full S$15,300 SRS top-up and S$8,000 of own CPF room, so about S$1,071 and S$441 cut and tax before rebate S$1,943 to S$431; review: figures scaled to the demo's take-home cut S$156 and S$123 and read as pocket change, so this card is not tied to the Income tab's figures; the phone's back bar, employment and chargeable income are left out so the title and the tax line sit where they should). Amounts keep cents, as the tracker shows single payments. `lab/projects-dark/tools/finance/feat-new.cjs` renders both, injecting each panel into the demo phone with the tracker's phone styles in a render-only stylesheet; subscription names and prices are invented. Packing: one master list in Defaults (each row's `ruleText()` rule and list chips), what's left as one picture (`packing-picture.webp`: the app's own Copy as image output, `renderListImage`, run on a sample-data copy of the app with seed data, Normal trip 41 of 50 with Hide packed on, now opening with the app's boarding-pass header; since 9 Nov 2026 it is composed into the previous image's phone frame under its status bar rather than screenshotted, `lab/projects-dark/tools/packing/picture41.cjs` exports it from the sample copy and `compose.py` beside it does the composing, both local like `feat.cjs`; it replaced the cold-trip Extended card on 9 Nov 2026, as the demo's Extended tab shows that), and Save and reload trips (`historyDialog()`, two sample entries in the app's exact formats); the Defaults page and the Trip history dialog exist only in the real app, so the render script injects them into the demo phone with every word and rule from packing's `app.js` and `data/seed.json`. The 9 Nov 2026 screenshot review set the bar for all twelve (owner: "squashbot still has a lot of spam, the web app doesnt take the full screen"): Mini Apps full screen, no pinned bars, sample chips or unrelated messages in a frame, and the feature's proof inside the crop. Type follows paprikaapp.com's measurements: headings 600 with -0.03em tracking and `text-wrap: balance`, 24px card titles, 15px card text in `#9da2a9`, 24px card padding and radius on `#1b1c1f` with a `#2d2f34` border, 18px gaps; reasons and feature cards are titles alone (9 Nov 2026). Wording and layout pass (owner, 9 Nov 2026: "review all the wording on the project page ... look out for general spacing, alightment, font size"; two independent reviews, measured): small text uses two sizes, 14px for demo captions, Start over (Archivo 600), stack lines, rail subtitles and the Finance tile labels, and 12px only for the uppercase kind line; app names are 3rem; on desktop the right column starts at the top of the grid (rows `0fr auto auto 1fr auto`) so the heading never hops between tabs; every companion sits 2rem under the stack line and the lock screens caption underneath like the laptop; rail subtitles all take two lines; on phones the gap above and below each divider is even and the More features titles are 1.3rem in 84%-wide cards so each wraps to two lines.
 - Demos run entirely in memory. A guided preview starts once at 90% visibility after 500 ms of settled scrolling, one demo at a time. Taps and keys stop it; swipes re-arm it. Reduced motion skips previews. Once a preview ends, and until the reader touches that demo, its next action pulses three times (SquashBot's second sample, which asks for the court, Nag-bot's Chores button, Finance's first flagged charge, Packing's More nights). While the reader is using a demo that is on screen, no other preview starts for 8 s. Each preview must keep its result on screen (8 Nov 2026 review rounds): SquashBot scrolls the confirm form into view and holds it before Add booking; Nag-bot presses Done by about 2.5 s, shows the receipt and celebration sticker, then scrolls up to the board and flashes the litter box's new "in 42 days" line; Finance scrubs the chart, opens Needs attention, then a flagged charge's check, holds it and closes it, resting on the flagged charges; Packing folds Basics and Hygiene so the nights visibly recount the clothes, turns on Last call, unfolds Basics, ticks eSIM ("7 left") and taps Show everything, so More nights works at once. Non-booking text in SquashBot gets a toast rather than silence, and a sample chip leaves the row once sent until Start over (owner, 9 Nov 2026: sending "tmr c4 2100" again only booked the same court twice). On phones the caption and Start over sit left together, clear of the site's fixed Menu pill. Start over restores that demo only. Use flat scoped CSS for iOS 16; keep each phone and its reset visible together on phones.
 - Projects sits between Work and Skills. Only its route loads projects.css/projects.js; it shares Work's opening style. The 80 KB per-page JavaScript limit still applies; projects.js is budgeted at 70 KB, projects.css at 77 KB and the built projects.html at 46 KB (raised 8 Nov 2026 for the carousel and the finance tabs, and 9 Nov 2026 for the dark showcase, the two re-themed demos, Nag-bot's board and stickers, the More features rows and the laptop's loader; the page's JavaScript stays under 80 KB, with about 70 bytes to spare).
